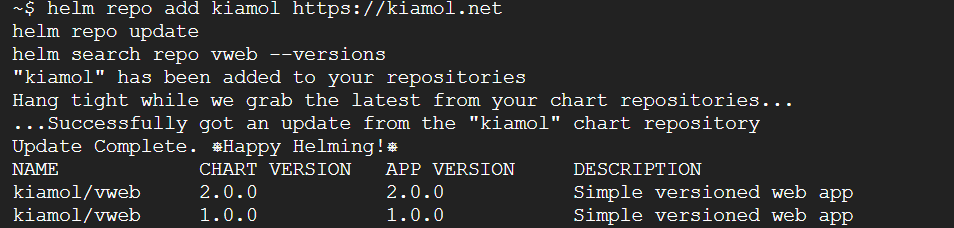
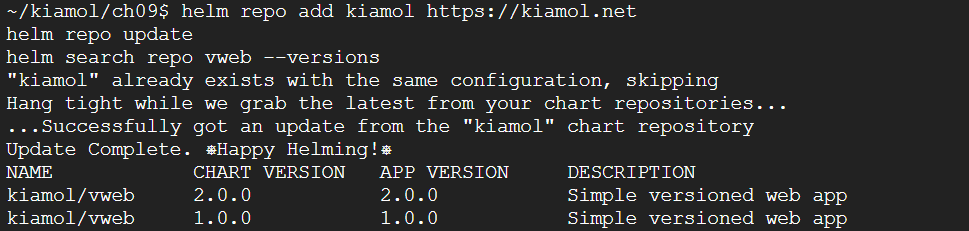
실습 스크린샷: week12 helm search + week11 업데이트 전략

diff --git a/posts/week12.html b/posts/week12.html
@@ -39,10 +39,8 @@ helm<span class="w"> </span>repo<span class="w"> </span>update<span class="w">  
 helm<span class="w"> </span>search<span class="w"> </span>repo<span class="w"> </span>vweb<span class="w"> </span>--versions<span class="w">        </span><span class="c1"># 차트 검색</span>
 </code></pre></div>
 
-<div class="admonition capture">
-<p class="admonition-title">helm search repo 결과</p>
-<p>(실습 화면 캡처)</p>
-</div>
+<p><img alt="helm search repo 결과" src="../assets/img/helm-search.png" /><br />
+<em>▲ <code>helm repo add kiamol</code> 후 <code>helm search repo vweb --versions</code> — 원격 리포에 등록된 vweb 차트가 버전별(2.0.0·1.0.0)로 검색된다.</em></p>
 <p><code>helm show values</code>로 파라미터를 확인하고 <code>--set</code>으로 값을 바꿔 설치한다. <code>helm upgrade</code>로 업데이트:</p>
 <div class="highlight"><pre><span></span><code>helm<span class="w"> </span>show<span class="w"> </span>values<span class="w"> </span>kiamol/vweb<span class="w"> </span>--version<span class="w"> </span><span class="m">1</span>.0.0<span class="w">  </span><span class="c1"># 파라미터 기본값</span>
 helm<span class="w"> </span>install<span class="w"> </span>--set<span class="w"> </span><span class="nv">servicePort</span><span class="o">=</span><span class="m">8010</span><span class="w"> </span>--set<span class="w"> </span><span class="nv">replicaCount</span><span class="o">=</span><span class="m">1</span><span class="w"> </span>ch10-vweb<span class="w"> </span>kiamol/vweb<span class="w"> </span>--version<span class="w"> </span><span class="m">1</span>.0.0<span class="w">  </span><span class="c1"># 설치</span>

diff --git a/posts/week11.html b/posts/week11.html
@@ -205,10 +205,8 @@ kubectl<span class="w"> </span>get<span class="w"> </span>rs<span class="w"> </s
 curl<span class="w"> </span><span class="k">$(</span>cat<span class="w"> </span>url.txt<span class="k">)</span><span class="w"> </span>-UseBasicParsing<span class="w">                 </span><span class="c1"># 여전히 응답</span>
 </code></pre></div>
 
-<div class="admonition capture">
-<p class="admonition-title">Recreate 중단 vs RollingUpdate 유지</p>
-<p>(실습 화면 캡처)</p>
-</div>
+<p><img alt="Recreate vs RollingUpdate" src="../assets/img/week11-strategy.png" /><br />
+<em>▲ 잘못된 v3 이미지로 업데이트 — Recreate는 기존 파드 3개를 한꺼번에 Terminating(다운타임), RollingUpdate는 새 ReplicaSet(<code>vweb-698…</code>)을 따로 만들어 점진 교체한다(두 ReplicaSet으로 전환 관리).</em></p>
 <h2 id="_5">막혔던 점</h2>
 <ul>
 <li>멀티컨테이너 파드에서 <code>kubectl logs</code>/<code>exec</code> 오류 → <code>-c</code>로 컨테이너 지정.</li>

diff --git a/_content/week12.md b/_content/week12.md
@@ -12,8 +12,8 @@ helm repo update                        # 캐시 업데이트
 helm search repo vweb --versions        # 차트 검색
 ```
 
-!!! capture "helm search repo 결과"
-    (실습 화면 캡처)
+![helm search repo 결과](../assets/img/helm-search.png)
+*▲ `helm repo add kiamol` 후 `helm search repo vweb --versions` — 원격 리포에 등록된 vweb 차트가 버전별(2.0.0·1.0.0)로 검색된다.*
 
 `helm show values`로 파라미터를 확인하고 `--set`으로 값을 바꿔 설치한다. `helm upgrade`로 업데이트:
 

diff --git a/_content/week11.md b/_content/week11.md
@@ -215,8 +215,8 @@ kubectl get rs -l app=vweb
 curl $(cat url.txt) -UseBasicParsing                 # 여전히 응답
 ```
 
-!!! capture "Recreate 중단 vs RollingUpdate 유지"
-    (실습 화면 캡처)
+![Recreate vs RollingUpdate](../assets/img/week11-strategy.png)
+*▲ 잘못된 v3 이미지로 업데이트 — Recreate는 기존 파드 3개를 한꺼번에 Terminating(다운타임), RollingUpdate는 새 ReplicaSet(`vweb-698…`)을 따로 만들어 점진 교체한다(두 ReplicaSet으로 전환 관리).*
 
 ## 막혔던 점
 
